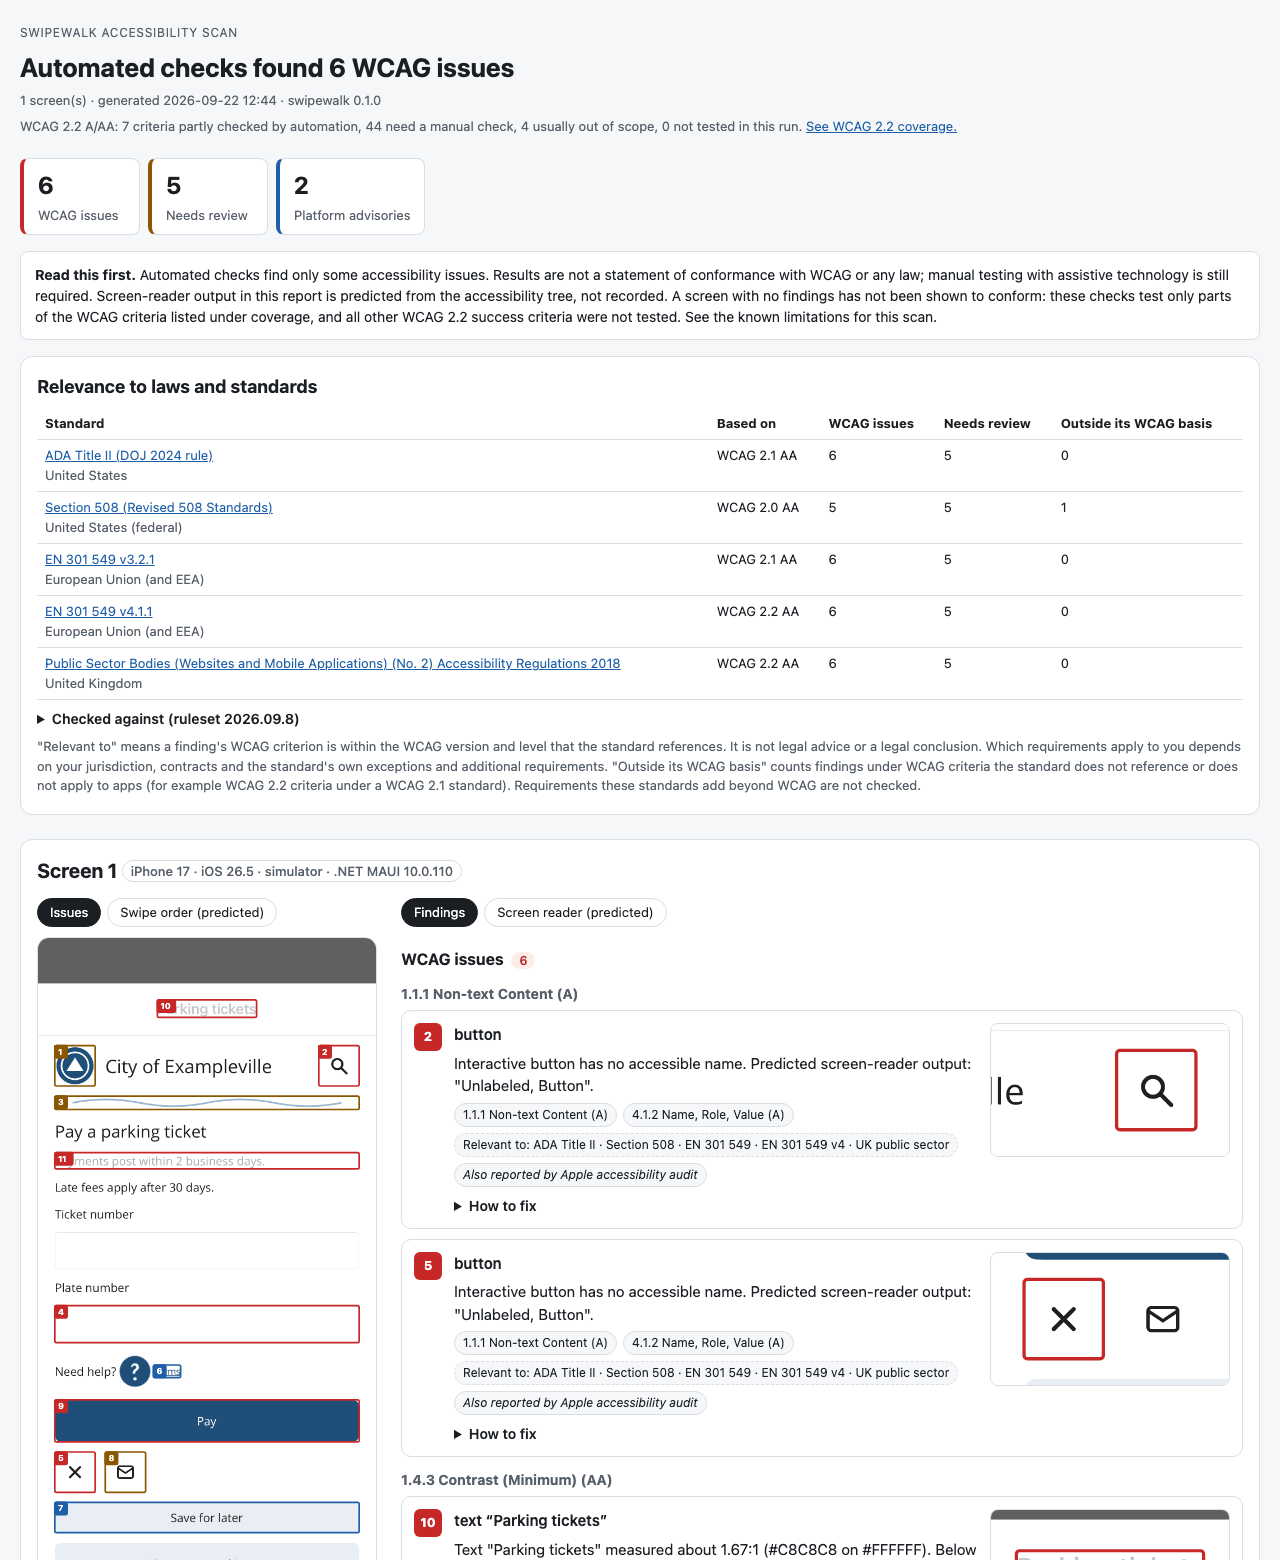
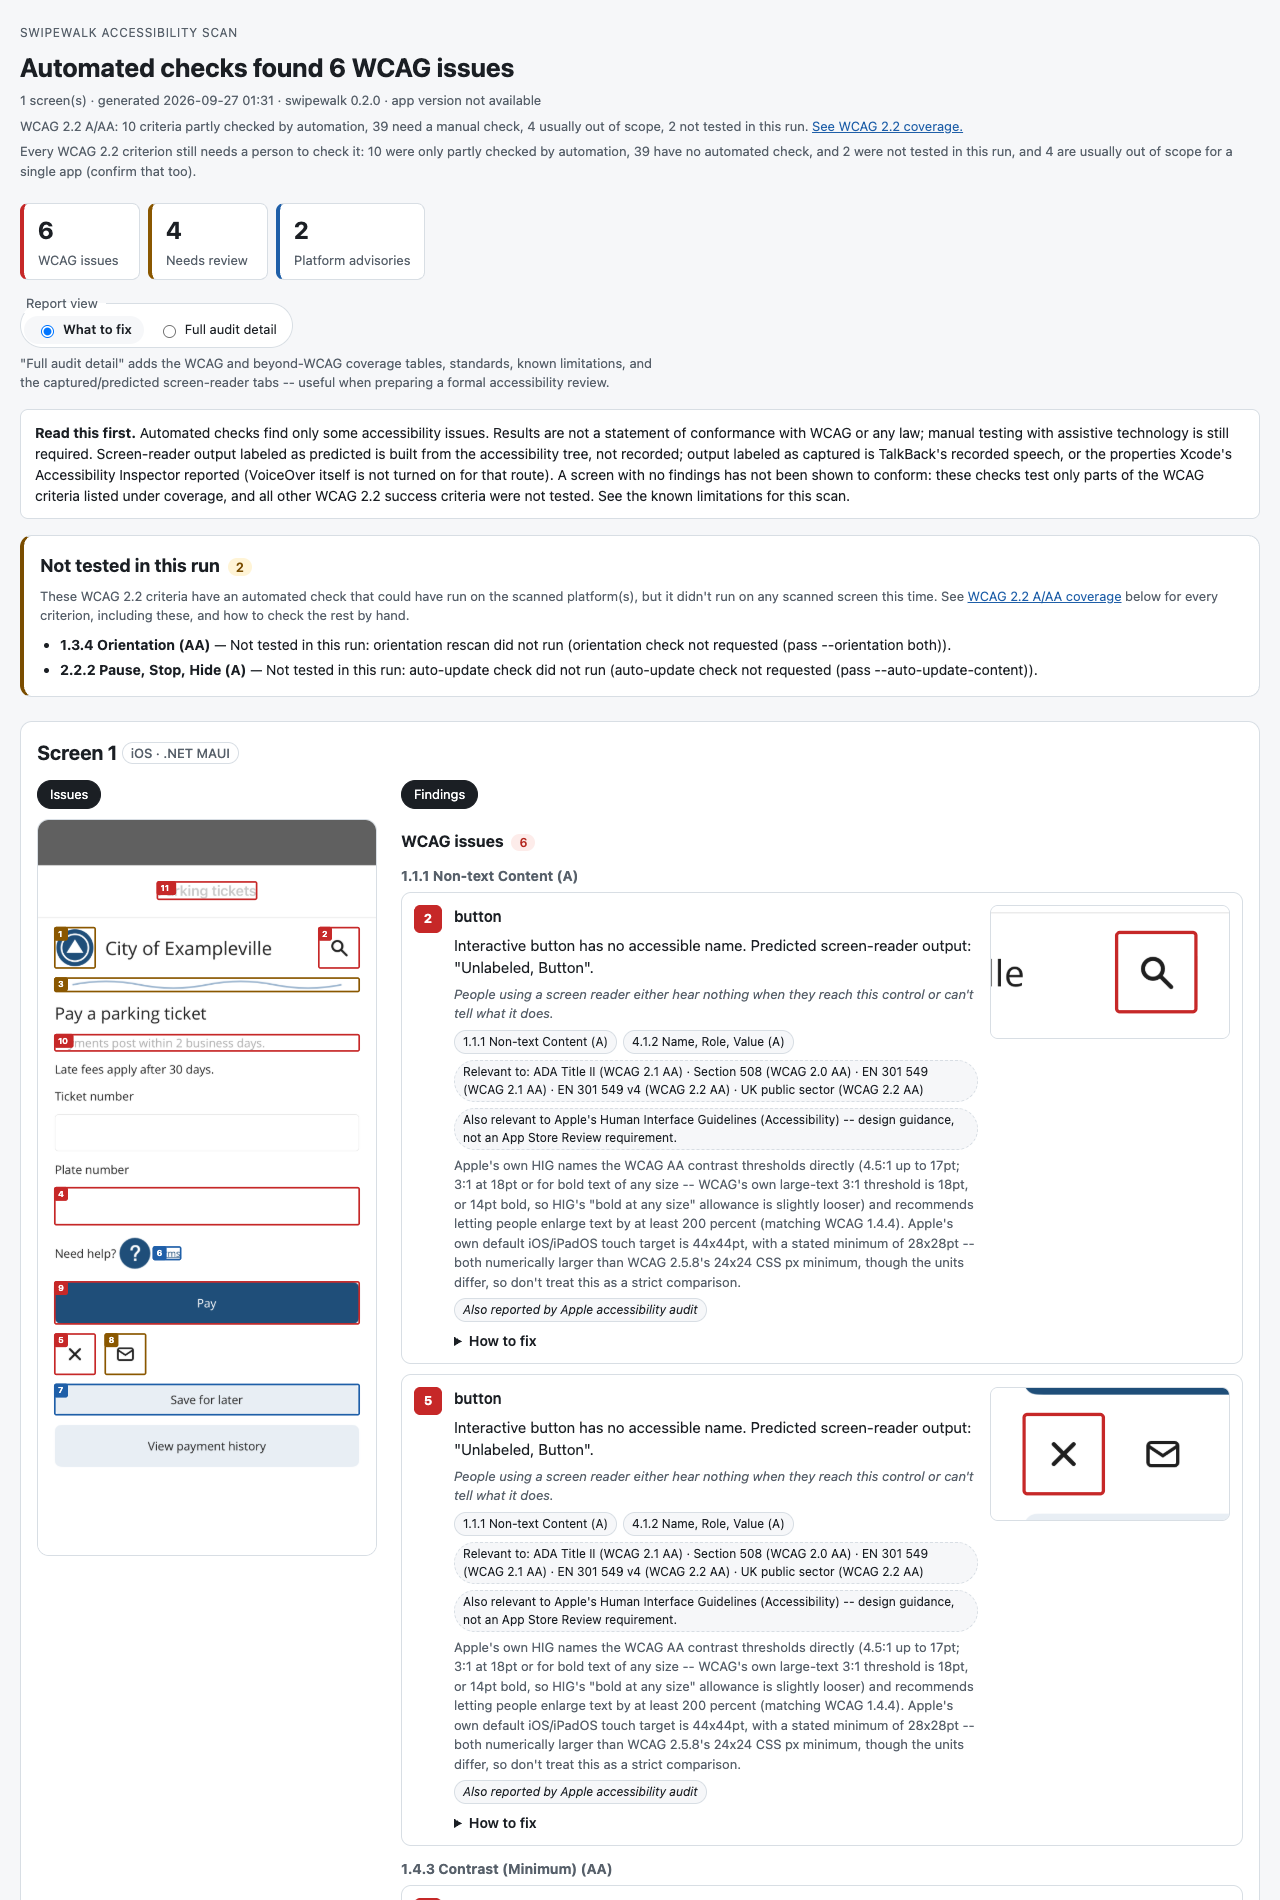
Update the homepage for 0.3.0: report redesign, exports, non-goals
Remove the stale "Guided per-screen WCAG checks" bullet -- that work
was removed from 0.3.0 and is planned for a later release, so it
shouldn't appear as a shipped feature. Add the dark/light and
orientation rescans, the wider standards/jurisdictions mapping, the
iOS Accessibility Inspector route, root-cause grouping with who's
affected, app version per run, and the export formats (tickets, CSV,
HTML, PDF). Add a "What it doesn't do" section (no overlays, no
certification or legal advice, no automatic code changes, not a
replacement for testing with disabled people).

Update report-ios.png to the redesigned report ("What to fix" / "Full
audit detail" views) and correct its now-stale 4-vs-5 needing-review
count in the alt text and the img width/height attributes. Rendered
from a saved BuggyApp capture in a headless browser, not a screen
capture of this machine.

diff --git a/index.html b/index.html
@@ -98,18 +98,29 @@ swipewalk scan --platform android --large-text --out report</code></pre>
        window, with a device list, live progress, the report and a comparison with earlier runs.</p>
 
     <h2>What a report looks like</h2>
-    <img src="report-ios.png" width="1280" height="1560"
-         alt="A Swipewalk report for a sample app on the iPhone Simulator: 6 WCAG issues, 5 items needing review and 2 platform advisories, plus a summary of WCAG 2.2 A/AA coverage. The app screenshot is marked with numbered boxes, and each finding lists its WCAG criterion, such as 1.1.1 Non-text Content, and the laws and standards it is relevant to.">
+    <img src="report-ios.png" width="1280" height="1900"
+         alt="A Swipewalk report for a sample app on the iPhone Simulator: 6 WCAG issues, 4 items needing review and 2 platform advisories, plus a summary of WCAG 2.2 A/AA coverage. The app screenshot is marked with numbered boxes, and each finding lists its WCAG criterion, such as 1.1.1 Non-text Content, and the laws and standards it is relevant to.">
 
     <h2>What it does</h2>
     <ul>
       <li>Scans one screen, or scans each new screen while you use the app; it can also rescan each at a large text size (Android and iOS, including physical phones, where it changes the phone's text size and restores it afterwards -- on an iPhone through the Settings app; use a test device). Screens that weren't scanned are listed as a manual task.</li>
+      <li>Rescans a screen in the device's other dark/light appearance and other orientation, including on a physical iPhone, so a contrast failure or layout problem that only shows up in one theme or one orientation isn't missed. A further, opt-in check takes a few more captures a few seconds apart to flag content that changes on its own.</li>
       <li>Measures text contrast from screenshot pixels, not from source code.</li>
       <li>Keeps WCAG issues apart from platform guidelines (Apple 44 pt, Android 48 dp touch targets).</li>
-      <li>Labels findings with the standards they are relevant to: ADA Title II, Section 508, EN 301 549, UK public sector regulations. This is not legal advice.</li>
+      <li>Labels findings with the standards they are relevant to: ADA Title II, Section 508, EN 301 549, UK public sector regulations, plus each standard's own clauses beyond WCAG, and opt-in mappings for researched US states and other countries. This is not legal advice.</li>
       <li>Compares runs: new, still found, and no longer found.</li>
       <li>Includes Apple's own accessibility audit on iOS and Google's Accessibility Test Framework on Android.</li>
-      <li>On Android, can also drive TalkBack itself over a screen's elements (opt-in) and report differences from the predicted transcript for you to check, running locally with no cloud service.</li>
+      <li>On Android, can also drive TalkBack itself over a screen's elements (opt-in) and report differences from the predicted transcript for you to check, running locally with no cloud service. On iOS, can read what Xcode's Accessibility Inspector reports for each element instead of turning VoiceOver on.</li>
+      <li>Groups findings that likely share one root cause (the same color, style or naming pattern) so one change can fix several at once, and states who each finding affects, in plain language. Reports record the scanned app's own version, so progress lines up with releases.</li>
+      <li>Exports a saved run's findings as one Markdown ticket per issue, a CSV for bulk import, a self-contained HTML report, or a tagged PDF for printing -- for handing off to an issue tracker or a colleague.</li>
+    </ul>
+
+    <h2>What it doesn't do</h2>
+    <ul>
+      <li>No overlays: it reads the accessibility layer an app already exposes, not a visual layer added on top.</li>
+      <li>No certification or legal advice: standards are shown for reference only, never as a compliance verdict.</li>
+      <li>No automatic code changes: every fix is left to the developer to make and review.</li>
+      <li>Not a replacement for testing with disabled people: automated checks and guided steps still need a person using assistive technology.</li>
     </ul>
 
     <h2>Learn more</h2>
